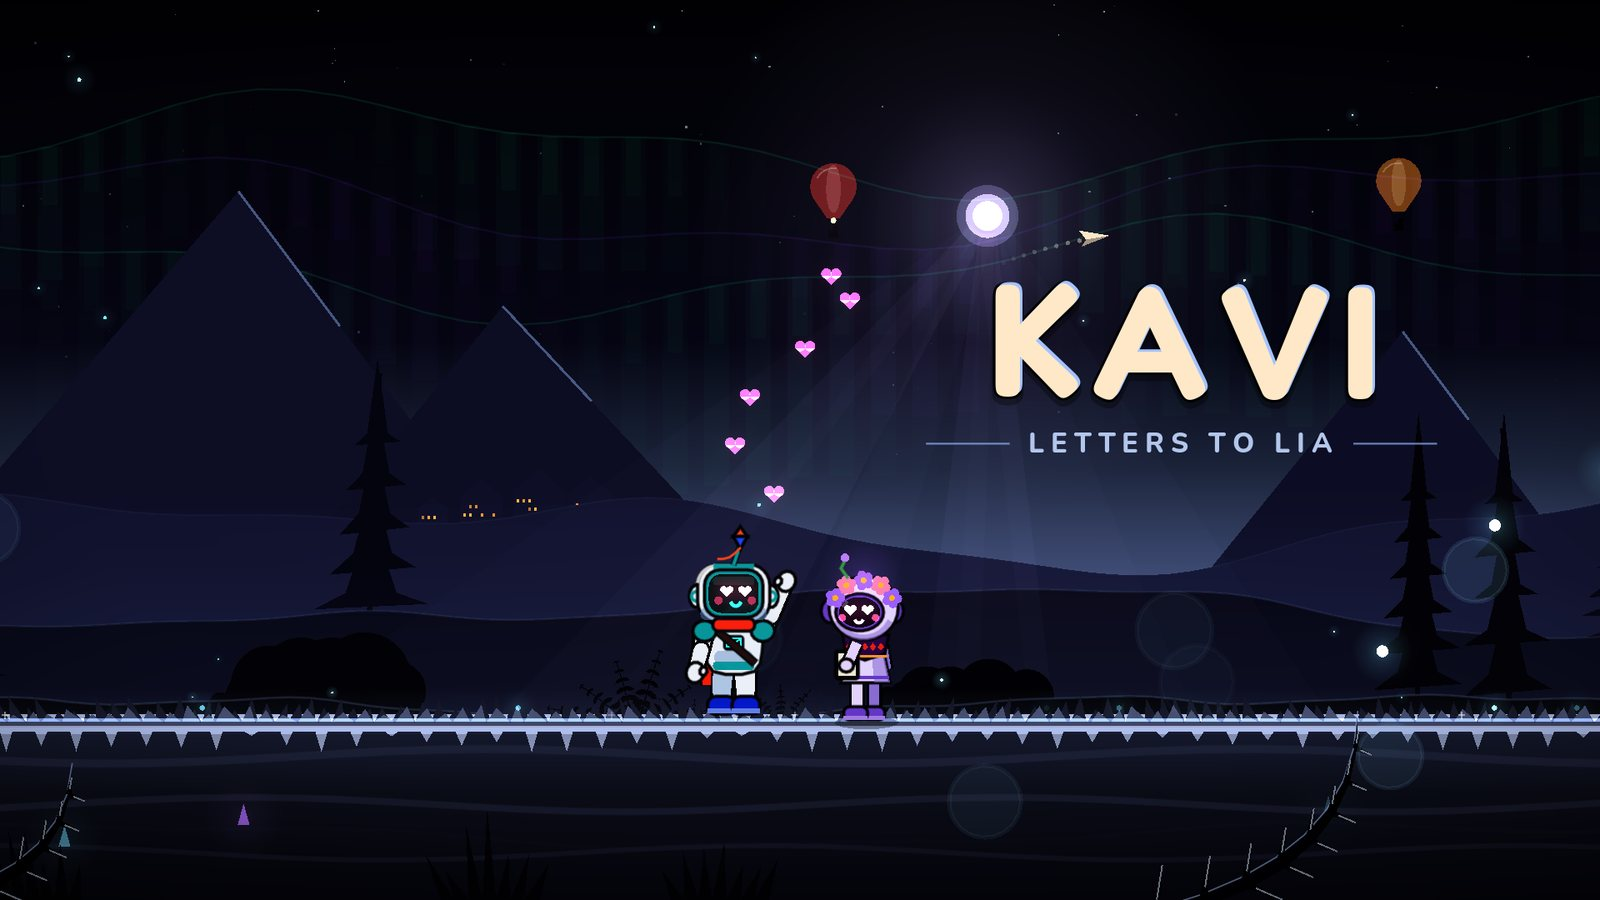
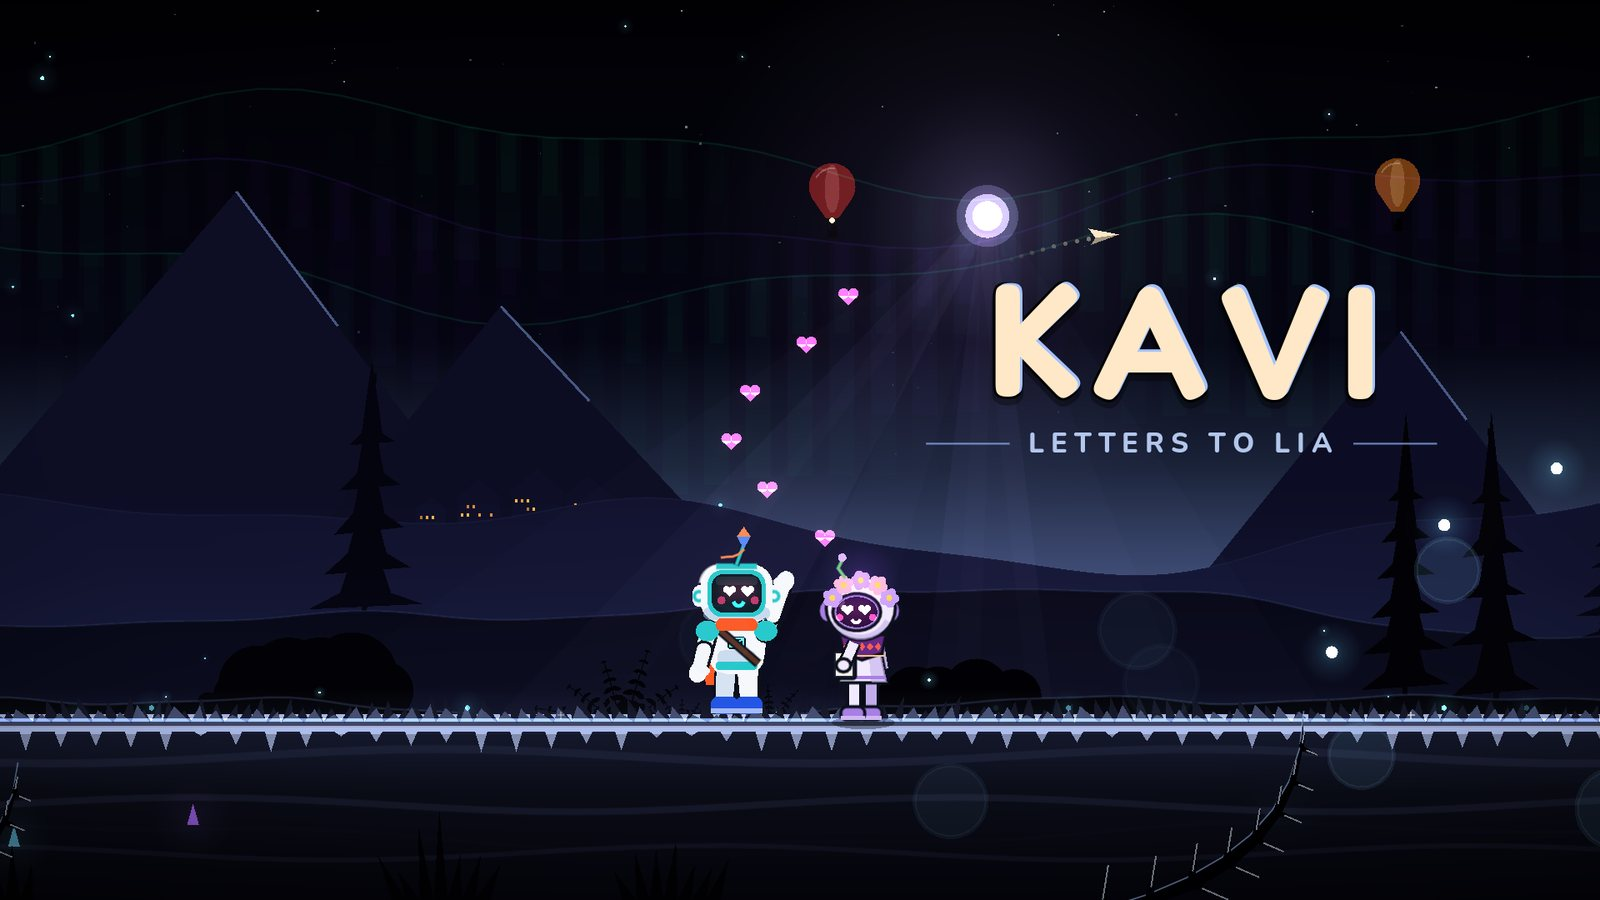
v0.8.19: loading screen warm-up, robust auto-quality (start High, median, calm-moment switches), HDR on all levels, 1080p phone scaling, prettier Low, true-colour outline-free Kavi

diff --git a/docs/CHANGELOG.md b/docs/CHANGELOG.md
@@ -1,4 +1,24 @@
 # Changelog
+## 0.8.19 (2026-11-24): smooth on phones, prettier Low, cuter Kavi
+Owner report from an Honor Magic 7 Pro: flicker, quality dropping from High to Medium or Low, a longer boot, and the menu lagging as it slid in.
+- **Loading screen with warm-up** (replaces the 0.8.17 warm-up that ran during the menu slide-in):
+  - The key art stays up with a progress bar while music loads on background threads. Each in-run text size is prepared within a time budget per frame.
+  - Each menu and gameplay screen (route choice, pause, results, out of hearts, settings, Garage) and each country is drawn once behind it.
+  - Then the title fades in and slides in smoothly; a new player's tutorial starts after it.
+  - The glyph warm-up now covers only the 42 size/outline pairs the HUD really uses (0.8.17 did 216 combinations).
+- **Auto graphics fixed:**
+  - Every device now starts on High (phones started on Medium).
+  - The median frame time is checked over 2 s windows, so one-off hitches no longer count. It needs two slow windows in a row to step down, and steps back up once per session when GPU time shows clear headroom.
+  - Changes wait for a calm moment (title, breather, run start) instead of happening mid-run, and the level is remembered for the next launch.
+- **Flicker:** HDR now stays on at every quality level. Auto-quality used to switch HDR off mid-run, which flashed the screen and shifted every colour.
+- **Phones above 1080p:** Medium and Low draw at 1080p and scale up (about 30% fewer pixels); High stays at full resolution.
+- **Low is pretty now:** same rich colours as High (it was pale because HDR was off), plus light rays, balloons, two-tone grass, flowers, foreground grass, soft light specks and Kavi's trail. Low still skips the glow post-process and some scenery density.
+- **Kavi (and Lia) in true colours, with no black outlines:**
+  - With HDR on, plain colours render darker and more saturated; the world keeps that moody look, while the characters are now re-encoded to their real bright colours (owner: the Low Kavi was cuter).
+  - Kavi's shapes no longer get black outline strokes at any quality.
+- New loading-screen key art in the new look. Draw timing in Painter only runs while benchmarking.
+- Medium benchmark: 5.8 ms, 461 draws. Low: 4.4 ms, 314 draws.
+- Not verified on a real phone yet.
 ## 0.8.18 (2026-11-23): obstacles with character
 - **Every country has its own hop obstacles** (60% of the time; the rest are courier parcels). Hitboxes are unchanged:
   - Greek amphoras with a black-figure band, and crates heaped with oranges.
